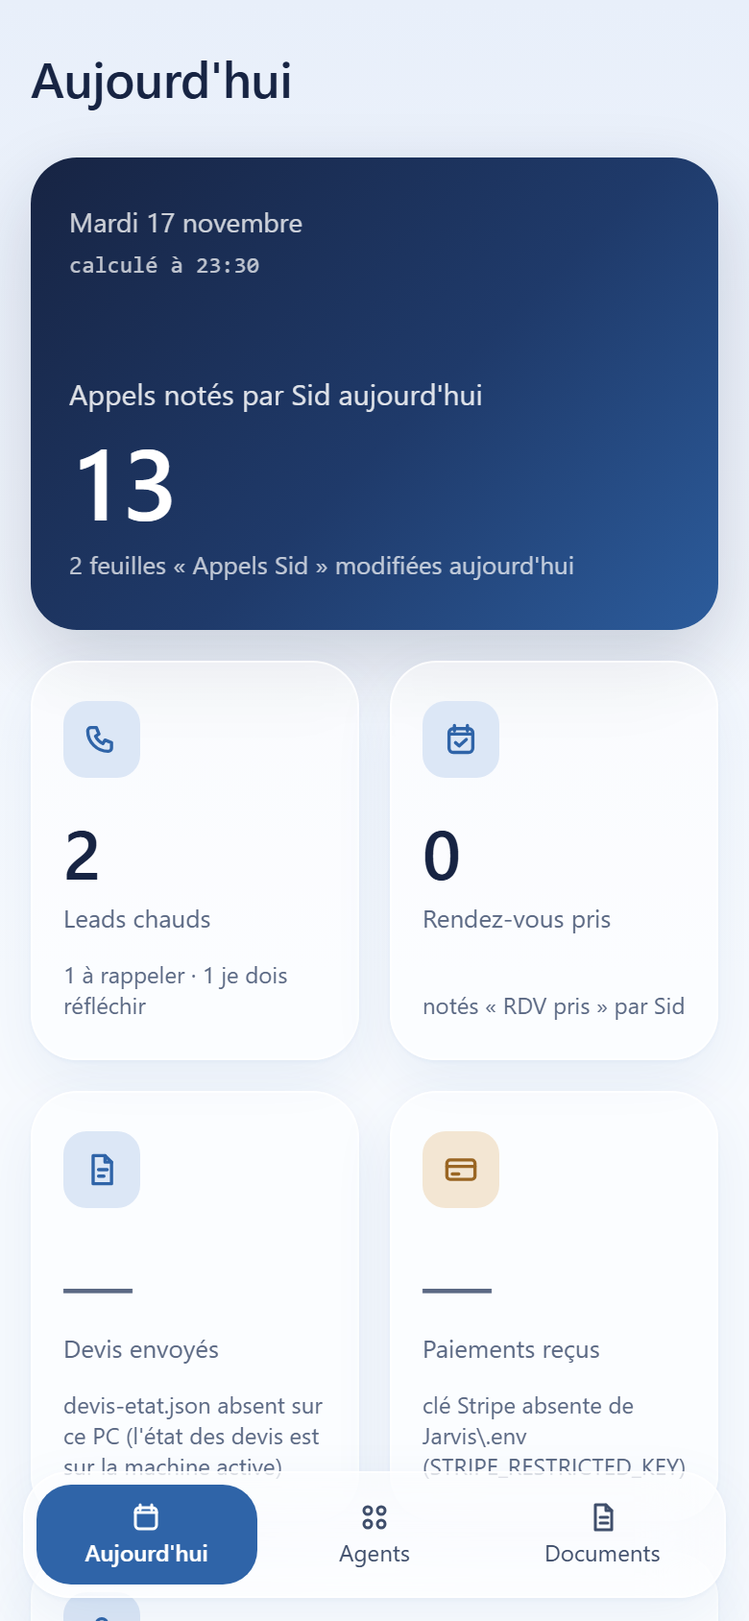
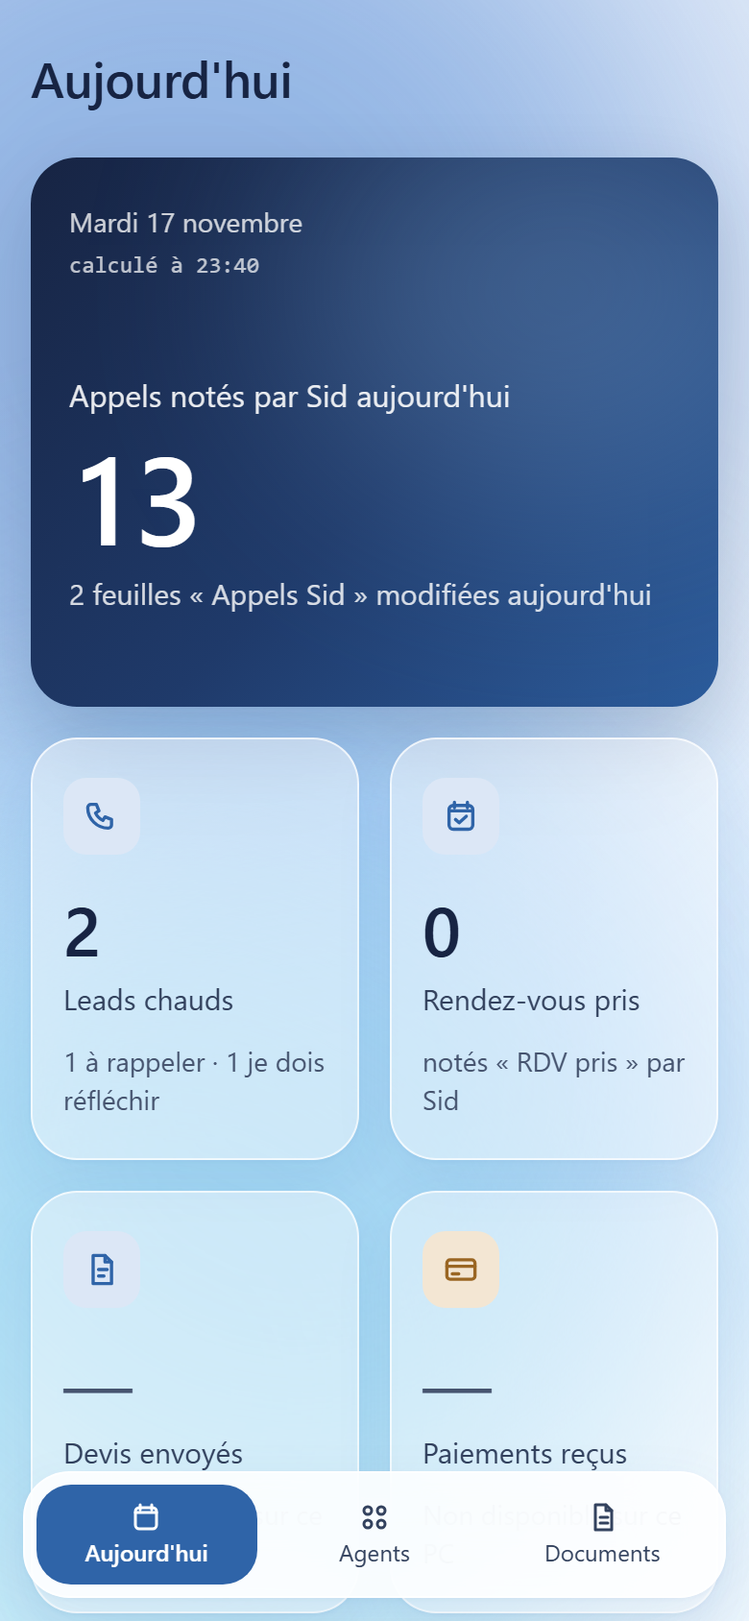
Tableau de bord clair corrigé : verre visible (3 formes floues bleues derrière, cartes à 45 %, blur 24 px), pleine largeur (1750 px sans vide), carte vedette avec lueur à droite et chiffre de 80 px (répartition de Sid seulement si ventes.json la donne), « Non disponible sur ce PC » dans les cartes a
Claude-Session: c56e595e-92ea-4d44-9299-91f4450258e8

diff --git a/dashboard/index.html b/dashboard/index.html
@@ -10,9 +10,9 @@
   :root {
     /* Trois gammes seulement : bleus (ciel, carte vedette, pastilles, voyants), blancs / gris bleutés (verre, texte bleu nuit), ocre foncé (paiements). Pas de vert, pas de violet, pas de rouge. */
     --ciel-haut: #E8EFFA; --ciel-bas: #F7FAFE;
-    --verre: rgba(255,255,255,.55); --verre-fort: rgba(255,255,255,.86); --bord-verre: rgba(255,255,255,.7);
+    --verre: rgba(255,255,255,.45); --verre-fort: rgba(255,255,255,.8); --bord-verre: rgba(255,255,255,.7);
     --ligne: rgba(23,36,67,.08); --ligne-forte: rgba(23,36,67,.16);
-    --texte: #172443; --doux: #3F4E6B; --faible: #5B6984;
+    --texte: #172443; --doux: #33425E; --faible: #46546F;
     --nuit: #172443; --bleu: #2F64A8; --bleu-moyen: #2C5C9C; --bleu-clair: #9DC0EE; --bleu-pale: #DCE7F6;
     --ocre: #9A6623;
     --ombre: 0 1px 2px rgba(47,100,168,.05), 0 12px 32px rgba(47,100,168,.08);
@@ -20,15 +20,14 @@
     --mono: "Cascadia Mono", "Cascadia Code", Consolas, ui-monospace, monospace;
   }
   * { box-sizing: border-box; }
-  html { background: var(--ciel-bas); }
-  body { margin: 0; min-height: 100vh; color: var(--texte); font: 14px/20px "Segoe UI Variable Text", "Segoe UI", system-ui, -apple-system, sans-serif; -webkit-font-smoothing: antialiased;
-    background: linear-gradient(180deg, var(--ciel-haut) 0%, var(--ciel-bas) 60%) fixed; }
+  html { background: linear-gradient(180deg, var(--ciel-haut) 0%, var(--ciel-bas) 60%) fixed var(--ciel-bas); }
+  body { margin: 0; min-height: 100vh; color: var(--texte); font: 14px/20px "Segoe UI Variable Text", "Segoe UI", system-ui, -apple-system, sans-serif; -webkit-font-smoothing: antialiased; background: transparent; }
   /* Trois grandes formes floues, fixes, en CSS pur (dégradés radiaux, aucun filtre ni animation) */
-  .formes { position: fixed; inset: 0; z-index: -1; pointer-events: none;
-    background:
-      radial-gradient(600px 480px at 10% 4%, rgba(143,179,227,.6), rgba(143,179,227,0) 70%),
-      radial-gradient(720px 560px at 98% 30%, rgba(166,197,238,.55), rgba(166,197,238,0) 70%),
-      radial-gradient(640px 500px at 44% 108%, rgba(184,208,242,.6), rgba(184,208,242,0) 70%); }
+  .formes { position: fixed; inset: 0; z-index: -1; pointer-events: none; overflow: hidden; }
+  .formes i { position: absolute; border-radius: 50%; filter: blur(80px); }
+  .formes i:nth-child(1) { width: 560px; height: 560px; top: -120px; right: 4%; background: #5B8FD6; opacity: .6; }      /* bleu moyen, en haut à droite */
+  .formes i:nth-child(2) { width: 480px; height: 480px; top: 38%; left: -80px; background: #86BDF2; opacity: .65; }   /* bleu ciel, au milieu à gauche */
+  .formes i:nth-child(3) { width: 520px; height: 520px; bottom: -140px; right: 14%; background: #9ADBF0; opacity: .55; } /* bleu-cyan clair, en bas à droite */
   a { color: var(--bleu); }
   button, input { font: inherit; color: inherit; }
   :focus-visible { outline: 2px solid var(--bleu); outline-offset: 2px; border-radius: 8px; }
@@ -36,21 +35,21 @@
   h1, h2, h3 { margin: 0; font-weight: 600; }
   .meta, .num { font-family: var(--mono); font-size: 12px; line-height: 16px; color: var(--faible); font-variant-numeric: tabular-nums; }
   .vide { color: var(--faible); }
-  .verre { background: var(--verre); -webkit-backdrop-filter: blur(20px) saturate(1.15); backdrop-filter: blur(20px) saturate(1.15); border: 1px solid var(--bord-verre); border-radius: 24px; box-shadow: var(--ombre); }
+  .verre { background: var(--verre); -webkit-backdrop-filter: blur(24px) saturate(1.2); backdrop-filter: blur(24px) saturate(1.2); border: 1px solid var(--bord-verre); border-radius: 24px; box-shadow: var(--ombre); }
   .carte { transition: transform .2s var(--courbe), box-shadow .2s var(--courbe); }
   .carte:hover { transform: translateY(-4px); box-shadow: 0 1px 2px rgba(47,100,168,.05), 0 16px 40px rgba(47,100,168,.12); }
 
   /* Coquille : barre latérale en verre, étroite, flottante */
-  .cote { position: fixed; top: 16px; left: 16px; bottom: 16px; width: 200px; z-index: 5; display: flex; flex-direction: column; padding: 24px 12px 20px; }
+  .cote { position: fixed; top: 16px; left: 16px; width: 200px; z-index: 5; display: flex; flex-direction: column; padding: 24px 12px 20px; }
   .marque { padding: 0 12px 28px; } .marque b { display: block; font-size: 16px; line-height: 24px; font-weight: 600; } .marque span { color: var(--faible); }
   .cote nav { display: flex; flex-direction: column; gap: 4px; }
   .cote nav button { display: flex; align-items: center; gap: 10px; height: 40px; padding: 0 14px; border: 0; border-radius: 20px; background: none; color: var(--doux); cursor: pointer; text-align: left; transition: background-color .2s var(--courbe), color .2s var(--courbe); }
   .cote nav button svg { flex: none; }
   .cote nav button:hover { background: rgba(255,255,255,.7); color: var(--texte); }
   .cote nav button[aria-current="page"] { background: var(--bleu); color: #fff; font-weight: 500; }
-  .cote .pied { margin-top: auto; padding: 0 12px; }
+  .cote .pied { margin: 32px 0 0; padding: 0 12px; }
 
-  main { margin-left: 232px; max-width: 1280px; padding: 40px 32px 96px 24px; min-width: 0; animation: entree .4s var(--courbe) both; }
+  main { margin-left: 216px; padding: 40px 32px 96px 32px; min-width: 0; animation: entree .4s var(--courbe) both; }
   @keyframes entree { from { opacity: 0; transform: translateY(6px); } }
   .tete { display: flex; align-items: baseline; gap: 12px 16px; flex-wrap: wrap; margin-bottom: 24px; }
   .tete h1 { font-size: 30px; line-height: 38px; letter-spacing: -.01em; }
@@ -61,12 +60,17 @@
 
   /* Carte vedette : appels notés par Sid aujourd'hui */
   .vedette { position: relative; display: flex; align-items: flex-end; justify-content: space-between; gap: 24px; min-height: 232px; padding: 28px 32px; border-radius: 24px; color: #fff; overflow: hidden;
-    background: linear-gradient(135deg, var(--nuit) 0%, #1F3A6A 55%, var(--bleu-moyen) 100%); box-shadow: 0 16px 40px rgba(23,36,67,.18); }
+    background: linear-gradient(135deg, var(--nuit) 0%, #1F3A6A 55%, var(--bleu-moyen) 100%); box-shadow: 0 16px 40px rgba(23,36,67,.18); isolation: isolate; }
+  .vedette::after { content: ""; position: absolute; z-index: -1; right: -80px; top: -60px; width: 560px; height: 380px; border-radius: 50%; background: #8FC1F2; opacity: .45; filter: blur(70px); }
+  .vedette .droite-v { display: flex; flex-direction: column; align-items: flex-end; gap: 16px; }
+  .repartition { display: flex; flex-wrap: wrap; justify-content: flex-end; gap: 8px; max-width: 520px; margin: 0; padding: 0; list-style: none; }
+  .repartition li { display: inline-flex; align-items: baseline; gap: 8px; padding: 6px 12px; border-radius: 16px; background: rgba(255,255,255,.14); border: 1px solid rgba(255,255,255,.24); font-size: 14px; line-height: 20px; }
+  .repartition b { font-size: 14px; line-height: 20px; margin: 0; letter-spacing: 0; }
   .vedette .haut { position: absolute; top: 28px; left: 32px; right: 32px; display: flex; justify-content: space-between; gap: 16px; color: rgba(255,255,255,.78); }
-  .vedette .lib { display: block; color: rgba(255,255,255,.86); font-size: 15px; line-height: 22px; }
-  .vedette b { display: block; font-size: 64px; line-height: 72px; font-weight: 600; letter-spacing: -.02em; font-variant-numeric: tabular-nums; margin: 4px 0 4px; }
+  .vedette .lib { display: block; color: rgba(255,255,255,.9); font-size: 16px; line-height: 24px; }
+  .vedette b { display: block; font-size: 80px; line-height: 88px; font-weight: 600; letter-spacing: -.02em; font-variant-numeric: tabular-nums; margin: 4px 0 4px; }
   .vedette b.manque { font-weight: 400; color: rgba(255,255,255,.7); }
-  .vedette .det { color: rgba(255,255,255,.72); font-size: 13px; line-height: 18px; }
+  .vedette .det { color: rgba(255,255,255,.82); font-size: 15px; line-height: 22px; }
   .vedette svg { flex: none; }
   .vedette .meta { color: rgba(255,255,255,.72); }
 
@@ -74,10 +78,10 @@
   .chiffres { display: grid; grid-template-columns: repeat(var(--n, 4), minmax(0, 1fr)); gap: 24px; margin: 24px 0 0; padding: 0; list-style: none; }
   .chiffre { display: flex; flex-direction: column; min-height: 200px; padding: 24px; }
   .pastille { display: grid; place-items: center; width: 40px; height: 40px; border-radius: 12px; background: var(--bleu-pale); color: var(--bleu); }
-  .chiffre b { font-size: 40px; line-height: 48px; font-weight: 600; letter-spacing: -.02em; font-variant-numeric: tabular-nums; margin: 20px 0 4px; }
+  .chiffre b { font-size: 44px; line-height: 52px; font-weight: 600; letter-spacing: -.02em; font-variant-numeric: tabular-nums; margin: 20px 0 4px; }
   .chiffre b.manque { color: var(--faible); font-weight: 400; }
-  .chiffre .lib { color: var(--faible); font-size: 13px; line-height: 18px; }
-  .chiffre .det { margin-top: auto; padding-top: 12px; color: var(--faible); font-size: 12px; line-height: 16px; }
+  .chiffre .lib { color: var(--doux); font-size: 15px; line-height: 22px; }
+  .chiffre .det { margin-top: auto; padding-top: 12px; color: var(--faible); font-size: 14px; line-height: 20px; }
   .chiffre.cle b:not(.manque) { color: var(--ocre); }
   .chiffre.cle .pastille { background: #F3E6D3; color: var(--ocre); }
   .accueil-vide { padding: 32px; max-width: 720px; } .accueil-vide p { margin: 8px 0 0; color: var(--doux); }
@@ -85,21 +89,22 @@
   /* Agents : une grande carte, une colonne par pôle */
   .bloc { padding: 24px; margin-top: 24px; }
   .bloc .tete { margin-bottom: 16px; }
-  .colonnes { display: grid; grid-template-columns: repeat(auto-fit, minmax(200px, 1fr)); gap: 8px 24px; }
-  .colonne h3 { display: flex; justify-content: space-between; align-items: baseline; font-size: 14px; line-height: 20px; font-weight: 600; padding: 8px 8px 8px; border-bottom: 1px solid var(--ligne); margin-bottom: 4px; }
+  .colonnes { display: grid; grid-template-columns: repeat(auto-fit, minmax(240px, 1fr)); gap: 16px; align-items: start; }
+  .colonne { padding: 12px 8px 8px; border-radius: 16px; background: rgba(255,255,255,.5); border: 1px solid var(--bord-verre); }
+  .colonne h3 { display: flex; justify-content: space-between; align-items: baseline; font-size: 15px; line-height: 22px; font-weight: 600; padding: 4px 8px 10px; border-bottom: 1px solid var(--ligne); margin-bottom: 4px; }
   .lien { border: 0; background: none; padding: 0; color: var(--bleu); cursor: pointer; text-decoration: underline; text-underline-offset: 3px; }
 
   /* Voyants : bleu plein = passé aujourd'hui, anneau bleu = passé avant, gris bleuté = aucun passage visible, losange bleu nuit = erreur */
-  .pt { display: inline-block; width: 8px; height: 8px; border-radius: 50%; flex: none; background: rgba(23,36,67,.2); }
+  .pt { display: inline-block; width: 10px; height: 10px; border-radius: 50%; flex: none; background: rgba(23,36,67,.28); }
   .pt.ok { background: var(--bleu); }
-  .pt.ancien { background: none; box-shadow: inset 0 0 0 1.5px var(--bleu); }
-  .pt.erreur { background: var(--texte); border-radius: 1px; transform: rotate(45deg); }
+  .pt.ancien { background: none; box-shadow: inset 0 0 0 2px var(--bleu); }
+  .pt.erreur { width: 9px; height: 9px; background: var(--texte); border-radius: 1px; transform: rotate(45deg); }
   .legende { display: flex; gap: 8px 20px; flex-wrap: wrap; margin: 20px 0 0; padding-top: 16px; border-top: 1px solid var(--ligne); } .legende span { display: inline-flex; align-items: center; gap: 8px; }
 
   .poles { display: grid; grid-template-columns: repeat(auto-fill, minmax(300px, 1fr)); gap: 24px; align-items: start; }
   .pole { padding: 20px 16px 16px; }
   .pole h2 { display: flex; justify-content: space-between; align-items: baseline; font-size: 16px; line-height: 24px; padding: 0 8px 8px; }
-  .agent { display: grid; grid-template-columns: 16px 1fr auto; align-items: center; column-gap: 8px; width: 100%; min-height: 36px; padding: 8px; border: 0; border-radius: 12px; background: none; text-align: left; cursor: pointer; transition: background-color .2s var(--courbe); }
+  .agent { display: grid; grid-template-columns: 16px 1fr auto; align-items: center; column-gap: 10px; width: 100%; min-height: 44px; font-size: 15px; padding: 8px; border: 0; border-radius: 12px; background: none; text-align: left; cursor: pointer; transition: background-color .2s var(--courbe); }
   .agent .pt { justify-self: center; }
   .agent:hover, .agent[aria-pressed="true"] { background: rgba(255,255,255,.8); }
   .agent .nom { overflow: hidden; text-overflow: ellipsis; white-space: nowrap; }
@@ -121,6 +126,7 @@
   .corps { color: var(--doux); padding: 4px 8px 16px 26px; white-space: pre-wrap; word-break: break-word; font-size: 13px; }
   code { font-family: var(--mono); background: var(--bleu-pale); padding: 1px 4px; border-radius: 4px; font-size: 12px; }
   .pipeline { padding: 24px; max-width: 960px; }
+  .source-l { display: grid; grid-template-columns: 220px 48px 1fr; gap: 16px; align-items: baseline; padding: 12px 0; border-bottom: 1px solid var(--ligne); } .source-l span:last-child { color: var(--doux); overflow-wrap: anywhere; }
   .stats { display: grid; grid-template-columns: repeat(4, minmax(0, 1fr)); gap: 24px; padding-bottom: 24px; margin-bottom: 16px; border-bottom: 1px solid var(--ligne); }
   .stats span { display: block; color: var(--faible); font-size: 13px; line-height: 18px; } .stats b { display: block; margin-top: 4px; font-size: 28px; line-height: 36px; font-weight: 600; font-variant-numeric: tabular-nums; }
   .etape { display: grid; grid-template-columns: 168px 1fr 40px; align-items: center; gap: 16px; min-height: 36px; }
@@ -148,6 +154,8 @@
     /* La barre latérale devient une barre du bas */
     .cote { top: auto; left: 12px; right: 12px; bottom: 12px; width: auto; padding: 6px; flex-direction: row; }
     .marque, .cote .pied { display: none; }
+    .cote.verre { background: rgba(255,255,255,.88); }
+    .vedette::after { width: 280px; height: 220px; right: -60px; top: -40px; opacity: .3; filter: blur(60px); }
     .cote nav { flex-direction: row; width: 100%; }
     .cote nav button { flex: 1; flex-direction: column; justify-content: center; gap: 2px; height: 52px; padding: 0 4px; font-size: 12px; line-height: 16px; border-radius: 18px; }
     main { margin-left: 0; padding: 24px 16px 112px; }
@@ -155,7 +163,7 @@
     .tete .droite { margin-left: 0; width: 100%; } input[type=search] { width: 100%; }
     .vedette { flex-direction: column; align-items: flex-start; min-height: 0; padding: 24px 20px; }
     .vedette .haut { position: static; margin-bottom: 24px; flex-direction: column; gap: 4px; }
-    .vedette b { font-size: 52px; line-height: 60px; }
+    .vedette b { font-size: 64px; line-height: 72px; } .vedette .droite-v { align-items: flex-start; } .repartition { justify-content: flex-start; }
     .chiffres { gap: 16px; margin-top: 16px; }
     .chiffre { min-height: 0; padding: 20px 16px; }
     .chiffre b { font-size: 36px; line-height: 44px; margin-top: 16px; }
@@ -164,6 +172,7 @@
     .pipeline { padding: 20px 16px; }
     .etape { grid-template-columns: 136px 1fr 32px; gap: 8px; }
     .poles { grid-template-columns: 1fr; gap: 16px; }
+    .source-l { grid-template-columns: 1fr 40px; } .source-l span:last-child { grid-column: 1 / 3; }
     #panneau { bottom: 88px; }
   }
   @media (hover: none) { .carte:hover { transform: none; } }
@@ -171,7 +180,7 @@
 </style>
 </head>
 <body>
-<div class="formes" aria-hidden="true"></div>
+<div class="formes" aria-hidden="true"><i></i><i></i><i></i></div>
 <aside class="cote verre">
   <div class="marque"><b>Jarvis</b><span>Mon entreprise</span></div>
   <nav id="nav" aria-label="Sections"></nav>
@@ -197,7 +206,7 @@
     candidatures: '<circle cx="8" cy="5" r="2.5"/><path d="M3 14a5 5 0 0 1 10 0"/>'
   };
   var VUES = [["jour", "Aujourd'hui"], ["agents", "Agents"], ["docs", "Documents"]];
-  var DOCS = [["pipeline", "Pipeline"], ["a_faire", "À faire"], ["journal", "Journal"], ["decisions", "Décisions"], ["idees", "Idées"]];
+  var DOCS = [["pipeline", "Pipeline"], ["sources", "Sources des chiffres"], ["a_faire", "À faire"], ["journal", "Journal"], ["decisions", "Décisions"], ["idees", "Idées"]];
   var JOURS = ["dimanche", "lundi", "mardi", "mercredi", "jeudi", "vendredi", "samedi"], MOIS = ["janvier", "février", "mars", "avril", "mai", "juin", "juillet", "août", "septembre", "octobre", "novembre", "décembre"];
   var VEDETTE = "appels", CLE = "paiements";   // la carte du haut, et le chiffre qui garde l'ocre
   var A = null, V = null, D = null, vue = "jour", doc = "a_faire", choisi = null, recherche = "";
@@ -239,6 +248,13 @@
       '<polyline points="' + pts.join(" ") + '" fill="none" stroke="var(--bleu-clair)" stroke-width="1.5" stroke-linejoin="round" stroke-linecap="round"/><circle cx="' + der[0] + '" cy="' + der[1] + '" r="3" fill="#fff"/></svg>';
   }
 
+  // Dans les cartes : une phrase simple ; le détail technique reste dans l'infobulle et dans Documents > Sources des chiffres
+  function simple(raison) { return /pas encore/i.test(raison || "") ? "Pas encore branché" : "Non disponible sur ce PC"; }
+  function repartition(x) {   // seulement si ventes.json donne la vraie répartition des résultats de Sid ({"RDV pris": 1, ...})
+    var r = x.repartition; if (!r || typeof r !== "object") return "";
+    var k = Object.keys(r).filter(function (n) { return typeof r[n] === "number"; }); if (!k.length) return "";
+    return '<ul class="repartition" aria-label="Résultats notés par Sid">' + k.map(function (n) { return "<li>" + esc(n) + "<b>" + r[n] + "</b></li>"; }).join("") + "</ul>";
+  }
   function vueJour() {
     var c = V && V.chiffres || [], ved = c.filter(function (x) { return x.cle === VEDETTE; })[0], autres = c.filter(function (x) { return x.cle !== VEDETTE; });
     var h = '<div class="tete"><h1>Aujourd\'hui</h1></div>';
@@ -247,12 +263,13 @@
       if (ved) {
         var m = ved.valeur == null;
         h += '<section class="vedette" aria-label="' + esc(ved.libelle) + '"><div class="haut"><span>' + esc(dateLongue(aujourdhui())) + "</span>" + (V.genere_le ? '<span class="meta">calculé à ' + esc(V.genere_le.slice(11, 16)) + "</span>" : "") + "</div>" +
-          '<div><span class="lib">' + esc(ved.libelle) + " aujourd'hui</span><b" + (m ? ' class="manque"' : "") + ">" + esc(val(ved.valeur)) + '</b><span class="det">' + esc(m ? ved.raison : ved.detail || "") + "</span></div>" + (m ? "" : courbe(ved.serie)) + "</section>";
+          '<div><span class="lib">' + esc(ved.libelle) + " aujourd'hui</span><b" + (m ? ' class="manque"' : "") + ">" + esc(val(ved.valeur)) + '</b><span class="det"' + (m ? ' title="' + esc(ved.raison) + '">' + simple(ved.raison) : ">" + esc(ved.detail || "")) + "</span></div>" +
+          (m ? "" : '<div class="droite-v">' + repartition(ved) + courbe(ved.serie) + "</div>") + "</section>";
       }
       h += '<ol class="chiffres" style="--n:' + autres.length + '">' + autres.map(function (x) {
         var manque = x.valeur == null;
         return '<li class="chiffre carte verre' + (x.cle === CLE ? " cle" : "") + '"><span class="pastille">' + svg(x.cle, 18) + "</span><b" + (manque ? ' class="manque"' : "") + ">" + esc(val(x.valeur)) +
-          '</b><span class="lib">' + esc(x.libelle) + '</span><span class="det">' + esc(manque ? x.raison : x.detail || "") + "</span></li>";
+          '</b><span class="lib">' + esc(x.libelle) + '</span><span class="det"' + (manque ? ' title="' + esc(x.raison) + '">' + simple(x.raison) : ">" + esc(x.detail || "")) + "</span></li>";
       }).join("") + "</ol>";
     }
     return h + carteAgents();
@@ -297,10 +314,17 @@
       p.map(function (x) { return '<div class="etape"><span>' + esc(x[0]) + '</span><div class="piste"><div class="rempli" style="width:' + (x[1] ? Math.max(2, 100 * x[1] / max) : 0) + '%"></div></div><b>' + esc(val(x[1])) + "</b></div>"; }).join("") +
       '<p class="meta" style="margin:16px 0 0">Comptes seulement · « — » : pas de donnée sur ce PC</p></section>';
   }
+  function vueSources() {   // d'où vient chaque chiffre du jour, avec la raison technique quand il manque
+    var c = V && V.chiffres || [];
+    if (!c.length) return '<p class="vide">ventes.js absent : double-cliquez sur l\'icône « Jarvis - Mon entreprise » du bureau.</p>';
+    return '<section class="pipeline verre">' + c.map(function (x) { return '<div class="source-l"><b>' + esc(x.libelle) + '</b><span class="num">' + esc(val(x.valeur)) + "</span><span>" + esc(x.valeur == null ? x.raison : x.detail || "") + "</span></div>"; }).join("") +
+      '<p class="meta" style="margin:16px 0 0">Calculé le ' + esc(V.genere_le) + " par outils\\agents-json.py</p></section>";
+  }
   function vueDocs() {
     var h = '<div class="tete"><h1>Documents</h1>' + (doc === "pipeline" ? "" : '<span class="droite"><input type="search" id="recherche" placeholder="Rechercher" aria-label="Rechercher dans les documents" value="' + esc(recherche) + '"></span>') + "</div>" +
       '<div class="sous" role="tablist">' + DOCS.map(function (d) { return '<button role="tab" data-doc="' + d[0] + '" aria-selected="' + (d[0] === doc) + '">' + d[1] + "</button>"; }).join("") + "</div>";
     if (doc === "pipeline") return h + vuePipeline();
+    if (doc === "sources") return h + vueSources();
     if (!D) return h + '<p class="vide">docs.js absent : double-cliquez sur l\'icône « Jarvis - Mon entreprise » du bureau.</p>';
     var r = recherche.toLowerCase(), l = (D[doc] || []).filter(function (s) { return !r || (s.titre + " " + s.texte).toLowerCase().indexOf(r) >= 0; });
     return h + '<div class="docs verre">' + (l.length ? l.map(function (s) { return "<details><summary>" + md(s.titre) + '</summary><div class="corps">' + (md(s.texte) || '<span class="vide">(vide)</span>') + "</div></details>"; }).join("") : '<p class="vide" style="padding:8px">Rien ne correspond</p>') +

diff --git a/B2B/docs/IDEES-CLAUDE-CHAT.md b/B2B/docs/IDEES-CLAUDE-CHAT.md
@@ -12,3 +12,32 @@
 - 2026-11-13 (Liam) : ARCHITECTURE A PARTIR DU CEO : Jarvis. Les TikTok donnes a Claude contenaient l'architecture complete (contenu perdu avec la conversation supprimee, a redonner). Jarvis doit tourner 24/24 sur le serveur Liam, pas seulement quand le gros PC est allume.
 - 2026-11-13 (Liam) : les prompts Claude Code doivent se terminer par la machine : « gros PC » ou « serveur Liam ».
 - 2026-11-13 (Liam) : tout ce qui est a faire est note dans TODO-B2B.md, JOURNAL-B2B.md et IDEES-MASTER.md (fichiers deja crees), pour le garder a vie. Ne jamais supprimer de conversation : l'historique n'est pas une sauvegarde, les fichiers le sont.
+- 2026-11-16 (Liam) : Obsidian sur les deux PC (gros PC et serveur Liam, Liam pense que le serveur ne l a pas, a verifier), vault mis a jour en continu, plus tard apres l agent video.
+- 2026-11-16 (Liam) : agent video : suppression automatique des videos apres 14 jours (reglable, une ligne de journal gardee) ; 4e agent marketing (hook, retention, beaux sous-titres) entre scripts et creation ; un skill de regles unique relu par tous les agents ; TTS edge-tts avec bascule auto sur Kokoro ; publication automatique apres UN seul go publier sur la premiere video de chaque ligne.
+- 2026-11-16 (Liam) : idee optionnelle, mini-serie TikTok au lieu de videos isolees (inspiree d un ami, sans copier), a reconsiderer apres les premieres stats.
+- 2026-11-16 (Liam) : page TikTok pour recruter des call callers a la commission (but unique de ce canal). Formulaire Google https://forms.gle/5G8FEigjU5Ks6Z2G6 en lien de bio, bio avec DM pour plus d infos, aucune promesse de revenu, taux de commission a fixer (10 ou 15 pour cent). Premiere video filmee par Liam, ensuite l agent video (ligne B).
+- 2026-11-16 (Liam) : agent evenements : chaque semaine, conferences et evenements a 45 minutes maximum autour de chez lui, gratuits ou peu chers (entrepreneuriat, IA, mentalite et discipline, business, vente), environ 45 minutes par semaine de sorties ; pas de prospection en personne.
+- 2026-11-16 (Liam, precision) : agent evenements : au moins 10 evenements par semaine (pas 5), gratuits si possible sinon entree peu chere, 45 minutes maximum de trajet ; zone elargie seulement pour un evenement vraiment interessant (gros nom, gros sujet), a signaler comme tel. Sortie : liste sur Discord, a lancer apres la video test et les premieres ventes.
+- 2026-11-16 (Liam) : pistes pour trouver des call callers et freelances : Fiverr et LinkedIn (en plus de Malt et de la page TikTok). A verifier : Fiverr vend des prestations payees, pas du travail a la commission seule ; LinkedIn gratuit, a tester avec un post de recrutement.
+- 2026-11-16 (Liam) : site https://trustmrr.com/ (partage par une connaissance) : sert a trouver des idees de SaaS ; pour plus tard, si Liam se lance dans les SaaS. Pas d'action maintenant.
+- 2026-11-16 (Liam) : verdict sur la video test de la ligne A : la voix est bien ; le rendu stickman est trop pauvre (fond noir, pas d'environnement, peu d'animation, pas de transitions ni d'effets, personnage pas assez humain). Il veut une scene animee en couleurs realistes (bureau), un stickman plus humain, et qu'on trouve un autre outil GitHub qui marche. Pistes trouvees : theunfinishedco (rendu flat colore, decors), figures (squelette, expressions), stick-stage (look toon deja installe), stickman-animation-agent. Il veut aussi savoir combien des 4 agents video tournent vraiment.
+- 2026-11-16 (Liam) : decisions : les relances J+3/J+7 sont a faire ; page-exemple pas necessaire pour l'instant ; surveillant doit etre actif ; appels-liam et nettoyage-fichiers pas actives maintenant. Spam Discord : alerte 'mise a jour refusee' repetee toutes les 10 a 30 min depuis 17h59 (commit local 995c431 non pousse) ; l'alerte ne doit parler qu'une fois. Il veut voir l'etat des agents video (veille, scripts...) facilement, idealement dans Obsidian.
+- 2026-11-16 (Liam) : il veut une interface d'architecture des agents qui se met a jour toute seule (la vue montree dans le chat est une photo figee, moche et non mise a jour). Decision : V1 = feuille Google 'Tableau de bord agents' mise a jour par le serveur toutes les 10 min (agent, dernier passage, etat, erreurs), puis plus tard une belle page web ; apres la ligne de statut Discord et les fiches des agents video.
+- 2026-11-16 (Liam) : il veut un agent monteur dedie (pas de video generee par IA) : coupes regulieres, gros plans, mouvements de camera, transitions, sous-titres animes, sons, belle fin avec appel a l'action. Decision : regles de montage ecrites a la main (grammaire de plans), executees par code, avec un controle qualite automatique ; a construire apres le choix de l'outil de rendu.
+- 2026-11-16 (Liam) : agent data par chaine : suit ce qui marche et ce qui ne marche pas (vues, likes, commentaires, abonnes, reponses au formulaire), reprend ce qui a marche pour l'histoire, l'accroche et la diversite de chaque video ; Codex envisage pour les prompts et idees (a verifier, gratuit seulement si le compte l'inclut). Decision : enregistrer des maintenant dans le journal des videos l'histoire, la formule d'accroche, le theme, la fin, la duree, la voix et l'heure de publication ; agent data construit apres une dizaine de publications.
+- 2026-11-16 (Liam) : exemples d'idees de videos fournis (docs/exemples-videos-liam.md) : format accroche, pivot, chute sur la vente au telephone. Decision : on garde la structure et 4 sujets (cold call pas mort, 7 premieres secondes, 'c'est trop cher', les premiers appels), mais PAS les revenus chiffres, les temoignages inventes ni les statistiques non verifiees ; on retire l'idee de trouver le numero prive des patrons. Nouvelle categorie 'lecons de vente au telephone' : repartition 40 pour cent comedie Gérard, 40 pour cent lecons, 20 pour cent entrepreneuriat/quotidien.
+- 2026-11-17 (Liam) : retour sur les videos test toon : animation et bureau OK ; texte sans sens (Qwen 3b), pas de musique, sous-titres trop discrets. Decisions validees : format sketch a deux, sous-titres gros mot par mot, musique + bruitages, 25 a 35 s ; 30 sketches ecrits a la main, Qwen choisit et remplit seulement ; agent monteur avec controle qualite. Liam veut co-ecrire les prompts : poser des questions avant (outil de questions).
+- 2026-11-17 (Liam) : verdict sur les videos sketch : voix, animation, zooms tres bien. Demandes : (1) retirer le texte 'contenu genere par IA' au milieu de l'ecran, a la place cocher la case IA de TikTok a la publication (le robot doit la cocher et verifier ; pas de publication si non verifiee) ; (2) un lot de 20 idees nouvelles toutes les 1 a 2 semaines ; (3) changer d'environnement et de personnage regulierement ; (4) series recurrentes pour attirer ; (5) idees via Codex/ChatGPT deja installe (a verifier : /codex:setup). Tout doit etre automatise.
+- 2026-11-17 (Liam) : reponses aux questions : lots d'idees ecrits par Codex si ca marche sinon par Claude chat ; un lot de 20 chaque semaine ; serie a la fois = fil du recrutement ; troupe de personnages de tout type (Gerard, cliente exigeante, banquier/comptable, voisin/ami, et d'autres varies). Regle : avant tout prompt, Claude pose d'abord des questions de contexte.
+- 2026-11-17 (Liam) : verdict sur les videos troupe/decors : pas mal, le hook est bien ; le texte doit avoir plus de sens, plus tard. Il veut plus tard pouvoir modifier les videos. Il a demande un recap : fait, a faire, architecture, ce qui marche ou non.
+- 2026-11-17 (Liam, a faire plus tard, ne jamais oublier) : videos : (1) les decors sont bien mais trop clairs, a ameliorer ; (2) au debut de chaque video il y a un carre bleu moche : l'enlever et mettre un beau texte a la place (accroche animee) ; (3) agent video : revoir l'architecture (rendu, texte qui a du sens, traces du harnais, planification) ; (4) Obsidian sur les deux PC et le serveur (fiches et skills des agents, harnais propre pour chaque agent) : go obsidian demain ; (5) tout ce qu'il dit doit etre note, rien oublie.
+- 2026-11-17 (Liam) : idee prospection papier : envoyer des lettres avec sa carte de visite a des restaurants sans site web, et se deplacer pour eux si possible (a tester a petite echelle ; va contre sa regle appels uniquement, a decider).
+- 2026-11-17 (Liam) : decision : il ne fera PAS les lettres aux restaurants (idee abandonnee) ; il veut se concentrer sur ce qui existe deja (appels, relances, videos, Obsidian) ; l'agent evenements/conferences reste dans la liste, a lancer apres les premieres ventes (go evenements).
+
+- 2026-11-17 soir (Liam) : correctif agents Sid décidé : l'agent du matin relit les 3 dernières feuilles « Appels Sid » ; le résumé 19 h 30 compte toutes les feuilles modifiées dans la journée ; leads chauds (À rappeler / intéressé, ex. Envog Coiffure) = alerte Discord pour Liam et retirés de la liste de Sid ; Non catégorique jamais rappelé ; feuilles de plus de 7 jours à la corbeille. Cause : Sid a noté dans la feuille de la veille. Prompt Claude Code donné (serveur Liam).
+- 2026-11-17 soir (Liam) : agents à mettre en place plus tard : agent conférence, agent CV (modifier ses CV), agent contrat. Pas avant les ventes.
+- 2026-11-17 soir (Liam) : skill GitHub heydamir/unslop (licence CC BY 4.0, crédit obligatoire à Damir Sokolovsky) : redessine une interface qui fait « faite par IA ». Liam veut l'utiliser pour son interface/dashboard. À installer le jour du dashboard (« go dashboard »).
+- 2026-11-17 soir (Liam) : Obsidian en 3D plus tard, pour le kiff : système solaire spatial ultra réaliste, une planète = un agent/dossier, soleil bleu = Jarvis (le CEO).
+- 2026-11-17 soir (Liam) : rejoint plusieurs groupes Facebook pour prospecter/recruter (groupes étudiants, groupes de recherche de closers). À décider : messages, lien du formulaire, Malt.
+- 2026-11-17 21 h (Liam) : dit « go publier » pour TikTok ; ordre prévu demain : vidéos de test OK, correctifs vidéo, Playwright + connexion TikTok par Liam, essai à blanc (publier --essai), puis publication réelle.
+- 2026-11-17 soir : Sid signale du mieux : plusieurs appels, 1 potentiellement intéressé sur environ 20, un à rappeler.

diff --git a/dashboard/LISEZMOI.md b/dashboard/LISEZMOI.md
@@ -4,7 +4,7 @@ Fichier local `dashboard\index.html`, ouvert par l'icône du bureau « Jarvis - 
 
 - **Données** : `outils\agents-json.py` écrit `agents.js`, `ventes.js` et `docs.js` (+ `agents.json`, `ventes.json`), hors git. La page les relit toutes les 5 minutes ; ils sont réécrits à chaque clic sur l'icône (et par `outils\servir-dashboard.py` sur le serveur).
 - **Aujourd'hui** (en haut) : appels notés par Sid et leads chauds (À rappeler, Je dois réfléchir) et RDV pris, lus dans toutes les feuilles « Appels Sid » modifiées aujourd'hui (fonctions de `resume-sid.py`, API Google gratuite) ; devis envoyés (`devis-etat.json`) ; paiements reçus (Stripe en lecture seule). Un chiffre indisponible s'affiche « — » avec la raison. Comptes seulement, jamais de nom, d'e-mail ni de téléphone.
-- **Style** (clair, 17/11) : barre latérale en verre flottante (barre du bas sur mobile), carte vedette bleu nuit pour les appels notés par Sid, puis une carte en verre par autre chiffre (icône en pastille, paiements en ocre foncé), une grande carte Agents avec une colonne par pôle ; Pipeline est dans Documents. Trois gammes : bleus, blancs bleutés, ocre. La courbe fine n'apparaît que si `ventes.json` donne une vraie série `serie` sur plusieurs jours (pas encore le cas). Sans `ventes.js`, la page dit de lancer l'icône.
+- **Style** (clair, 17/11) : barre latérale en verre flottante (barre du bas sur mobile), carte vedette bleu nuit pour les appels notés par Sid, puis une carte en verre par autre chiffre (icône en pastille, paiements en ocre foncé), une grande carte Agents avec une colonne par pôle ; Pipeline et « Sources des chiffres » (raison technique d'un « — ») sont dans Documents ; dans les cartes, un chiffre absent dit seulement « Non disponible sur ce PC » (détail dans l'infobulle). Si `ventes.json` donne un jour `repartition` pour les appels de Sid, elle s'affiche en pastilles dans la carte vedette. Trois gammes : bleus, blancs bleutés, ocre. La courbe fine n'apparaît que si `ventes.json` donne une vraie série `serie` sur plusieurs jours (pas encore le cas). Sans `ventes.js`, la page dit de lancer l'icône.
 - **Agents** : une carte par pôle, un voyant par agent (bleu plein = passé aujourd'hui, anneau bleu = passé avant, gris = aucun passage visible sur ce PC, losange bleu nuit = erreur).
 - **Test** : `python tests\test_ventes_dashboard.py` (silencieux). **Captures** : `node B2B\sites\outils\dashboard-captures.mjs` → `dashboard\apercu\`.
 

diff --git a/B2B/docs/JOURNAL-B2B.md b/B2B/docs/JOURNAL-B2B.md
@@ -71,3 +71,4 @@
 - 2026-11-17 (soir) : agent alerte-candidatures construit (alerte Discord par candidature au formulaire call caller, relance unique à 2 h, brouillon de réponse, ligne dans le résumé de 19 h 30), fermé jusqu'au « go alerte », formulaire pas encore lié à une feuille, 8 tests verts.
 - 2026-11-17 (nuit, gros PC) : tableau de bord passé en clair (barre latérale Aujourd'hui / Agents / Documents, cartes en verre sur ciel bleu pâle, ocre réservé aux paiements, une carte par pôle, phrase d'aide sans ventes.js) ; mécanisme de données inchangé, aucune courbe tant que ventes.json n'a pas d'historique.
 - 2026-11-17 (nuit, gros PC) : tableau de bord clair rapproché des références (carte vedette bleu nuit pour les appels de Sid, 5 cartes en verre avec icône, grande carte Agents par pôle, barre du bas sur mobile, survol de 4 px) ; données inchangées, aucune courbe faute d'historique.
+- 2026-11-17 (nuit, gros PC) : tableau de bord : verre visible (3 formes floues derrière), pleine largeur à 1750 px, carte vedette sans moitié vide, « Non disponible sur ce PC » dans les cartes (détail dans Documents › Sources des chiffres), pôles en petites cartes, barre latérale à la hauteur de son contenu.
